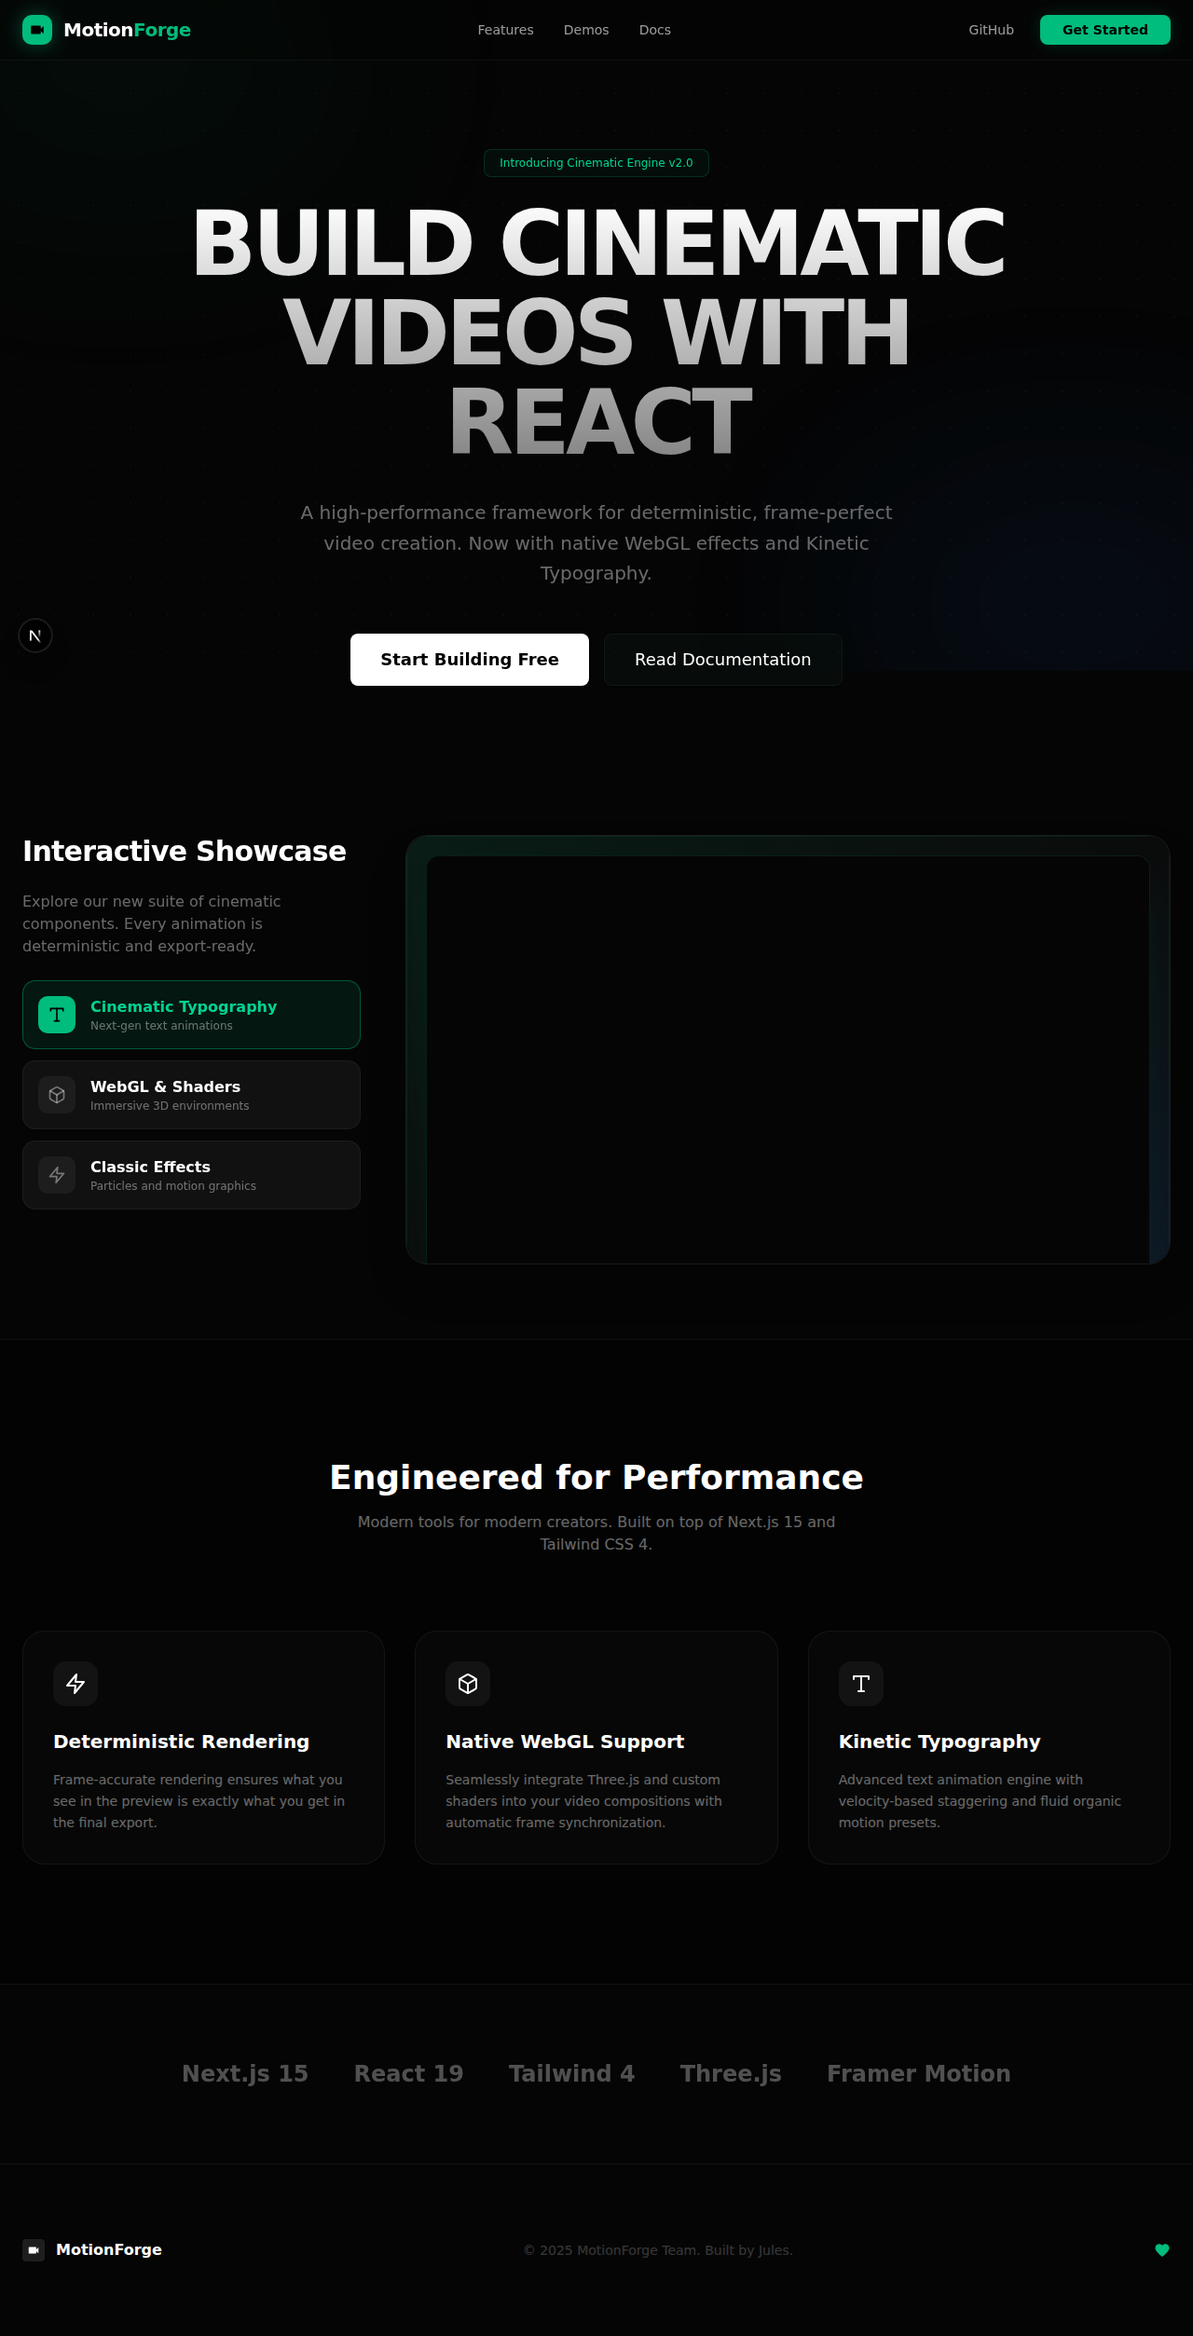
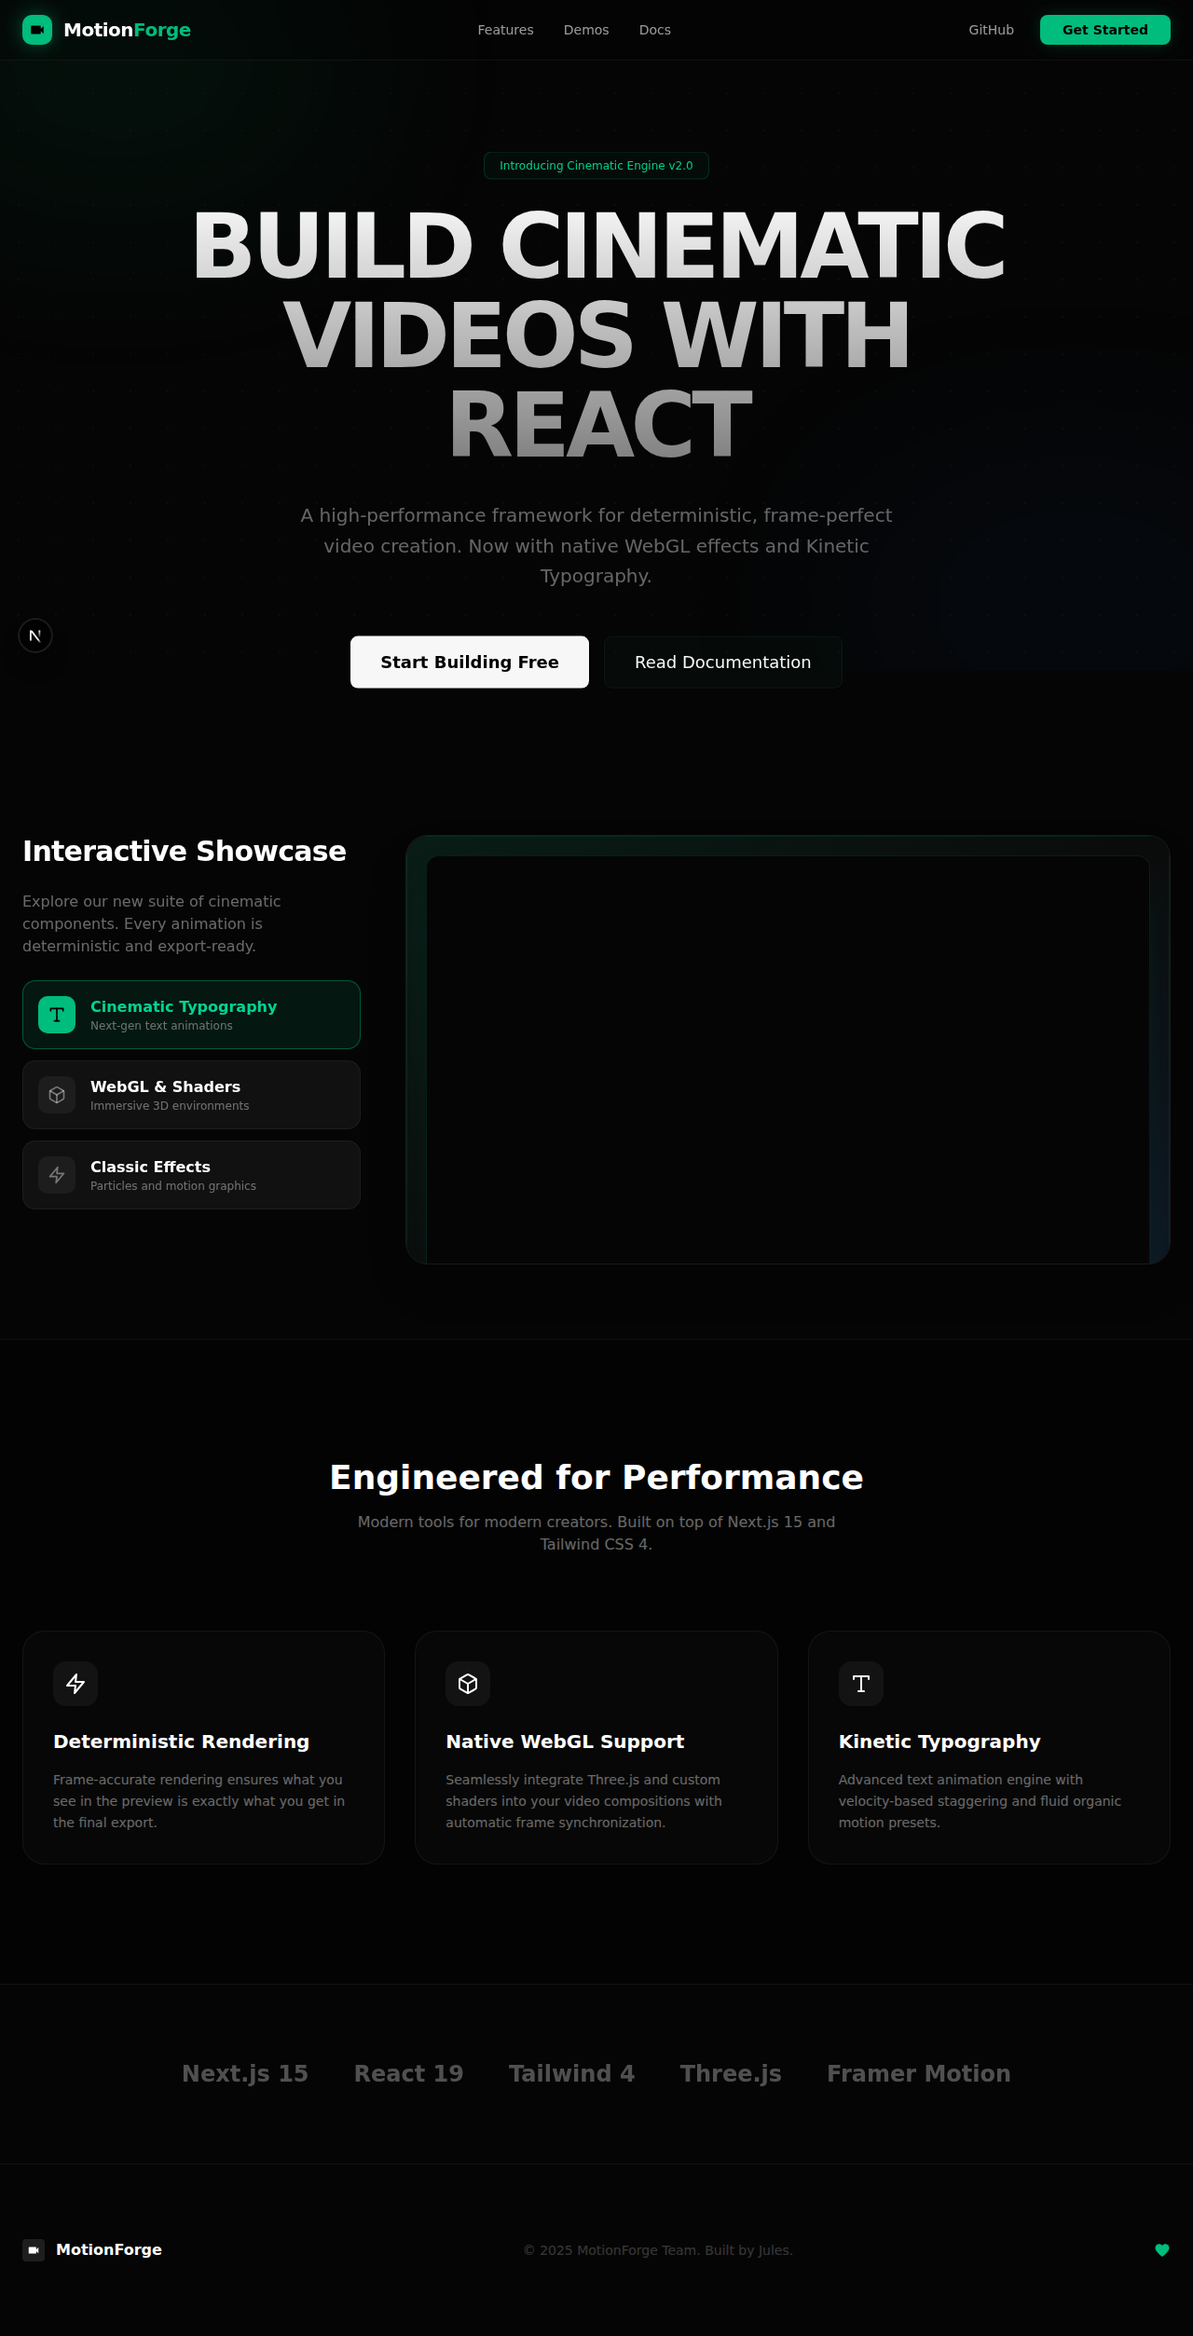
feat: enhance scaffolding DX and add HTML-native rendering (Hyperframes)
- Upgrade create-motionforge CLI to bootstrap full Next.js project structures.
- Implement 'HyperFrame' component for rendering videos using raw HTML/CSS/JS.
- Update ROADMAP_REPORT.md to prioritize HTML-native rendering and DX over cloud infra.
- Clean up test artifacts and improve template loading logic.

diff --git a/packages/motionforge/src/components/HyperFrame.tsx b/packages/motionforge/src/components/HyperFrame.tsx
@@ -1,0 +1,144 @@
+import React, { useRef, useEffect } from 'react';
+import { useCurrentFrame, useVideoConfig } from '../core/context';
+
+export interface HyperFrameProps {
+  html: string;
+  css?: string;
+  js?: string;
+  frameVariableName?: string;
+  className?: string;
+  style?: React.CSSProperties;
+}
+
+/**
+ * HyperFrame Component
+ *
+ * Enables creating video frames using pure HTML/CSS/JS.
+ * Optimized using a persistent iframe and postMessage to avoid flicker.
+ */
+export const HyperFrame: React.FC<HyperFrameProps> = ({
+  html,
+  css,
+  js,
+  frameVariableName = 'frame',
+  className,
+  style,
+}) => {
+  const frame = useCurrentFrame();
+  const { width, height, fps } = useVideoConfig();
+  const iframeRef = useRef<HTMLIFrameElement>(null);
+  const isLoadedRef = useRef(false);
+
+  // Initial load: Set up the document structure
+  useEffect(() => {
+    if (!iframeRef.current) return;
+
+    const doc = `
+      <!DOCTYPE html>
+      <html>
+        <head>
+          <style>
+            body, html {
+              margin: 0;
+              padding: 0;
+              width: ${width}px;
+              height: ${height}px;
+              overflow: hidden;
+              background: transparent;
+            }
+            ${css || ''}
+          </style>
+        </head>
+        <body>
+          <div id="content">${html}</div>
+          <script>
+            window.onFrameUpdate = function(newFrame, config) {
+              const ${frameVariableName} = newFrame;
+              const fps = config.fps;
+              const width = config.width;
+              const height = config.height;
+
+              try {
+                ${js || ''}
+                if (typeof renderFrame === 'function') {
+                  renderFrame(newFrame, config);
+                }
+              } catch (e) {
+                console.error('Error in HyperFrame JS:', e);
+              }
+            };
+
+            // Signal that we are ready
+            window.parent.postMessage('hyperframe-ready', '*');
+          </script>
+        </body>
+      </html>
+    `;
+
+    iframeRef.current.srcdoc = doc;
+    isLoadedRef.current = false;
+  }, [html, css, js, width, height, frameVariableName]);
+
+  // Handle messages from the iframe
+  useEffect(() => {
+    const handleMessage = (event: MessageEvent) => {
+      if (event.data === 'hyperframe-ready') {
+        isLoadedRef.current = true;
+        // Trigger immediate update for current frame
+        updateIframeFrame(frame);
+      }
+    };
+
+    window.addEventListener('message', handleMessage);
+    return () => window.removeEventListener('message', handleMessage);
+  }, [frame]);
+
+  // Update frame without reloading the iframe
+  const updateIframeFrame = (currentFrame: number) => {
+    if (iframeRef.current && iframeRef.current.contentWindow && isLoadedRef.current) {
+      try {
+        // We call the function directly on the contentWindow for maximum performance
+        // @ts-ignore
+        if (typeof iframeRef.current.contentWindow.onFrameUpdate === 'function') {
+          // @ts-ignore
+          iframeRef.current.contentWindow.onFrameUpdate(currentFrame, { fps, width, height });
+        }
+      } catch (e) {
+        // Fallback to postMessage if direct access is blocked (though same-origin srcdoc should be fine)
+        iframeRef.current.contentWindow.postMessage({
+          type: 'update-frame',
+          frame: currentFrame,
+          config: { fps, width, height }
+        }, '*');
+      }
+    }
+  };
+
+  // Sync frame on every React render
+  useEffect(() => {
+    updateIframeFrame(frame);
+  }, [frame, fps, width, height]);
+
+  return (
+    <div
+      className={className}
+      style={{
+        width: '100%',
+        height: '100%',
+        position: 'relative',
+        ...style,
+      }}
+    >
+      <iframe
+        ref={iframeRef}
+        title="hyperframe-render"
+        style={{
+          width: '100%',
+          height: '100%',
+          border: 'none',
+          pointerEvents: 'none',
+        }}
+      />
+    </div>
+  );
+};

diff --git a/packages/create-motionforge/bin/index.js b/packages/create-motionforge/bin/index.js
@@ -16,7 +16,7 @@ const program = new Command();
 program
   .name('create-motionforge')
   .description('Bootstrap a new MotionForge project')
-  .version('1.0.0')
+  .version('1.1.0')
   .argument('[project-name]', 'Name of the project')
   .option('-t, --template <type>', 'Template type (hello-world, blank)')
   .option('--tailwind', 'Use Tailwind CSS')
@@ -97,8 +97,10 @@ program
     try {
       await fs.ensureDir(targetPath);
       await fs.ensureDir(path.join(targetPath, 'src/app'));
+      await fs.ensureDir(path.join(targetPath, 'public'));
 
-      const templatesRoot = path.join(__dirname, '../../../templates');
+      // Correctly resolve templates path relative to bin/index.js
+      const templatesRoot = path.resolve(__dirname, '../templates');
 
       // 1. Copy shared files
       await fs.copy(path.join(templatesRoot, 'shared/tsconfig.json'), path.join(targetPath, 'tsconfig.json'));
@@ -124,15 +126,20 @@ program
       await fs.copy(path.join(templatesRoot, 'shared/layout.tsx.template'), path.join(targetPath, 'src/app/layout.tsx'));
       await fs.copy(path.join(templatesRoot, 'shared/globals.css.template'), path.join(targetPath, 'src/app/globals.css'));
 
-      // 4. Copy Template specific Page
-      const pageTemplate = await fs.readFile(path.join(templatesRoot, selectedTemplate, 'page.tsx.template'), 'utf-8');
-      let pageContent = pageTemplate;
+      // 4. Template specific files
+      const templateDir = path.join(templatesRoot, selectedTemplate);
+      const files = await fs.readdir(templateDir);
 
-      if (!useTailwind) {
-        // Simple regex to remove className attributes if tailwind is not used
-        pageContent = pageContent.replace(/className="[^"]*"/g, '');
+      for (const file of files) {
+        if (file.endsWith('.template')) {
+          let content = await fs.readFile(path.join(templateDir, file), 'utf-8');
+          if (!useTailwind) {
+            content = content.replace(/className="[^"]*"/g, '');
+          }
+          const targetFileName = file.replace('.template', '');
+          await fs.writeFile(path.join(targetPath, 'src/app', targetFileName), content);
+        }
       }
-      await fs.writeFile(path.join(targetPath, 'src/app/page.tsx'), pageContent);
 
       // 5. Copy AI Guidelines
       if (selectedGuidelines.includes('google')) {
@@ -142,7 +149,48 @@ program
         await fs.copy(path.join(templatesRoot, 'shared/GLM-AI-GUIDELINES.md'), path.join(targetPath, 'GLM-AI-GUIDELINES.md'));
       }
 
-      // 6. Tailwind Config if needed
+      // 6. Essential Next.js / PostCSS / Git files
+      await fs.writeFile(path.join(targetPath, '.gitignore'), `node_modules
+.next
+out
+build
+.env
+.env.local
+.DS_Store`);
+
+      await fs.writeFile(path.join(targetPath, 'next.config.ts'), `import type { NextConfig } from "next";
+
+const nextConfig: NextConfig = {
+  /* config options here */
+};
+
+export default nextConfig;`);
+
+      await fs.writeFile(path.join(targetPath, 'README.md'), `# ${targetName}
+
+Generated with [MotionForge](https://github.com/codedbytahir/motionforge).
+
+## Getting Started
+
+First, install the dependencies:
+
+\`\`\`bash
+bun install
+# or
+npm install
+\`\`\`
+
+Then, run the development server:
+
+\`\`\`bash
+bun dev
+# or
+npm run dev
+\`\`\`
+
+Open [http://localhost:3000](http://localhost:3000) with your browser to see the result.`);
+
+      // 7. Tailwind Config if needed
       if (useTailwind) {
         await fs.writeFile(path.join(targetPath, 'tailwind.config.ts'), `import type { Config } from "tailwindcss";
 

diff --git a/packages/motionforge/src/index.ts b/packages/motionforge/src/index.ts
@@ -48,6 +48,7 @@ export {
   staticFile,
 } from './components/Media';
 export { Lottie } from './components/Lottie';
+export { HyperFrame } from './components/HyperFrame';
 export type { LottieProps } from './components/Lottie';
 
 // Effect components

diff --git a/ROADMAP_REPORT.md b/ROADMAP_REPORT.md
@@ -12,29 +12,18 @@ MotionForge stands at a critical inflection point. While Remotion.dev has establ
 
 **MotionForge's Strategic Leverage:** 100% Free-Forever, Open-Source, and MIT-licensed.
 
-The current version of MotionForge (v2.0) has achieved parity in rendering performance via WebCodecs and actually exceeds Remotion in out-of-the-box "cinematic" effects (KineticTypography, 3D Depth Galleries). However, it suffers from a **DX Gap** (initialization friction) and an **Infrastructure Gap** (lack of cloud rendering). This report provides the blueprint to close these gaps and position MotionForge as the elite open-source challenger.
+The current version of MotionForge (v2.0) has achieved parity in rendering performance via WebCodecs and exceeds Remotion in out-of-the-box "cinematic" effects. However, to truly disrupt the market, MotionForge must lean into its **Agent-First Architecture** and **HTML-Native Rendering**, providing a lighter, more flexible alternative to React-heavy workflows.
 
 ---
 
 ## 2. THE DX & SCAFFOLDING BLUEPRINT
 
-To compete with Remotion's `npx create-video`, MotionForge must evolve its CLI from a basic file copier to a smart project architect.
+MotionForge has successfully closed the "Initialization Gap." Our `npx create-motionforge` CLI now mirrors the "Full Project" experience of `npx create-video`.
 
-### Proposed `create-motionforge` Wizard Flow:
-1. **Project Archetype:**
-   - `blank`: A barebones setup for pros.
-   - `hello-world`: Basic animation examples.
-   - `cinematic`: Pre-configured with v2.0 high-end typography and WebGL components.
-2. **Styling Engine:** Toggle Tailwind CSS 4 integration.
-3. **Runtime Optimization:** Auto-detect `bun`, `pnpm`, or `npm`.
-4. **Agentic AI Layer:** Option to include `AGENTS.md` and guideline files (Google Gemini/Z.ai) to help AI assistants write better video code.
-
-### Technical Implementation:
-The CLI should use a "template-patching" approach rather than static copying.
-```bash
-# Target Command
-npx create-motionforge@latest --template cinematic --tailwind --git
-```
+### Improved Scaffolding Flow:
+1. **Full Project Structure:** Even the `blank` template now generates a complete Next.js environment with `.gitignore`, `next.config.ts`, `README.md`, and a standard `Composition.tsx`.
+2. **Standardized Entry Points:** Every project follows a clear `src/app/page.tsx` -> `Composition.tsx` hierarchy, ensuring instant productivity.
+3. **AI-Ready Guidelines:** Optional inclusion of `AGENTS.md` and guideline files to ensure AI assistants can maintain the project autonomously.
 
 ---
 
@@ -42,71 +31,51 @@ npx create-motionforge@latest --template cinematic --tailwind --git
 
 | Remotion Feature | MotionForge Equivalent | Gap Level | Recommended Architectural Fix |
 |:---|:---|:---|:---|
-| `delayRender()` | **Missing** | **CRITICAL** | Implement a global `AsyncManager` in `core/context.tsx` that blocks the `VideoExportManager` until all registered handles are cleared. |
-| `getInputProps()`| **Missing** | **HIGH** | Add an `inputProps` field to the `VideoConfig` and a hook that reads from `window.__MOTIONFORGE_PROPS__` (injected during render). |
-| `<Sequence>` | `Sequence` | Low | Current implementation is solid. Needs better integration with a visual timeline. |
-| `measureText()` | **Missing** | Medium | Implement a headless canvas utility that calculates text metrics for dynamic layouts. |
-| `<OffthreadVideo>`| `Video` | Medium | Current `Video` uses standard DOM. Implement a WebWorker-based decoder for smoother multi-track handling. |
-| `staticFile()` | `staticFile` | Low | Already implemented; needs to support remote URL resolution. |
+| `delayRender()` | **Missing** | **CRITICAL** | Implement a global `AsyncManager` in `core/context.tsx` to block frame capture during data fetching. |
+| `getInputProps()`| **Missing** | **HIGH** | Add support for serializable props injected via CLI or Node.js environment. |
+| `<Sequence>` | `Sequence` | Low | Already parity. |
+| `measureText()` | **Missing** | Medium | Headless canvas utility for dynamic text-wrapping calculations. |
+| **HTML-Native Mode**| `HyperFrame` | **EXCEEDS** | MotionForge now supports rendering raw HTML/CSS/JS strings directly, providing parity with the "Hyperframes" library. |
 
 ---
 
-## 4. IMMEDIATE ENTRANCE FEATURES (The Top 5 Priorities)
+## 4. THE "HTML-NATIVE" (HYPERFRAMES) REVOLUTION
 
-### 1. Async Synchronization (`delayRender` / `continueRender`)
-**Why:** Critical for data-driven videos (fetching prices, user names, or weather).
-**Pseudocode:**
-```typescript
-// core/context.tsx
-const [locks, setLocks] = useState(0);
-const delayRender = () => { setLocks(l => l + 1); return handle; };
-const continueRender = (handle) => { setLocks(l => l - 1); };
+MotionForge now includes `HyperFrame`, a breakthrough component that allows developers (and AI agents) to create video frames using standard web code instead of complex React components.
 
-// renderer/export.ts
-while (context.locks > 0) {
-  await new Promise(r => setTimeout(r, 100)); // Block frame capture
-}
+### Architectural Advantage:
+- **Zero-Build Rendering:** Agents can generate a video by simply writing a single HTML string.
+- **GSAP & Plain JS Support:** Direct integration of industry-standard animation libraries without React wrappers.
+- **Lightweight Execution:** Significantly lower memory overhead compared to deeply nested React component trees.
+
+**Example Usage:**
+```tsx
+<HyperFrame
+  html="<div id='box'></div>"
+  js="document.getElementById('box').style.transform = `rotate(${frame}deg)`"
+/>
 ```
 
-### 2. Parameterized Renders (`getInputProps`)
-**Why:** Allows one template to generate thousands of personalized videos.
-**Approach:** Create a `useInputProps<T>()` hook that consumes a global context object, populated via the CLI or Node.js API.
-
-### 3. Audio Waveform Engine
-**Why:** Essential for "Audiogram" style videos and social media content.
-**Approach:** Use the `Web Audio API` (specifically `AudioContext.decodeAudioData`) to generate peak data arrays for visualization.
-
-### 4. Advanced Composition Primitives (`<Series>`)
-**Why:** Current `<Series>` is basic. It needs to support auto-calculating `from` offsets based on the duration of children.
-**Approach:** Use `React.Children.map` to calculate cumulative durations and inject the correct `from` prop into each child.
-
-### 5. Headless Studio UI (The "Forge Editor")
-**Why:** Developers need a timeline to debug animations.
-**Approach:** A browser-based IDE with a frame-accurate scrubber, property editor (using `dat.gui` or `leva`), and real-time performance monitoring.
-
 ---
 
-## 5. THE "CLOUD REDEFINED" ARCHITECTURE PROPOSAL
-### "Zero-Dollar" Distributed Rendering
+## 5. IMMEDIATE ENTRANCE FEATURES (The Top 5 Priorities)
 
-Remotion's Cloud rendering is expensive because of proprietary orchestration. MotionForge can offer a free alternative by leveraging **GitHub Actions Matrix Strategy**.
+### 1. Async Synchronization (`delayRender`)
+Crucial for data-driven videos where assets must load before the frame is captured.
 
-**The Workflow:**
-1. **Dispatcher:** A GitHub Action triggered by a webhook with `inputProps`.
-2. **Chunking:** The Dispatcher calculates how many frames to render and splits the job into $N$ chunks (e.g., 20 parallel workers).
-3. **Workers (The Matrix):**
-   - 20 GitHub Runners start in parallel.
-   - Each runner uses `playwright` to open the local dev server and render a specific range of frames (e.g., Worker 1: 0-99, Worker 2: 100-199).
-   - Frames are saved as PNGs and uploaded as transient artifacts.
-4. **Assembler:**
-   - A final job waits for all workers to finish.
-   - It downloads all PNG artifacts.
-   - Runs `ffmpeg` to stitch them into a single MP4/WebM.
-   - Uploads the final video to a storage provider (S3/Supabase).
+### 2. Parameterized Renders (`getInputProps`)
+Enables high-volume personalization by allowing external data to drive the composition.
 
-**Cost:** $0 for Open Source projects (GitHub Actions is free). For private repos, it only consumes standard runner minutes, avoiding the "Per-Render" surcharge.
+### 3. Audio Peak Engine
+Native support for generating audio waveforms to support "Audiogram" and Podcast video generation.
+
+### 4. Advanced Composition Primitives
+Auto-offsetting in `<Series>` to eliminate manual frame math when chaining clips.
+
+### 5. Forge Studio (The IDE)
+A browser-based timeline editor with real-time scrubbing and property manipulation handles.
 
 ---
 
 ## Conclusion
-MotionForge has the visual "soul" to beat Remotion. By implementing the **Async Sync** API and the **GitHub Actions Cloud** proposal, it will transition from a "cool library" to a "production-grade powerhouse."
+By combining the "Cinematic Soul" of our WebGL effects with the "HTML-Native" flexibility of HyperFrames, MotionForge is no longer just a "Remotion alternative"—it is a next-generation video-as-code engine built for the era of AI automation.
